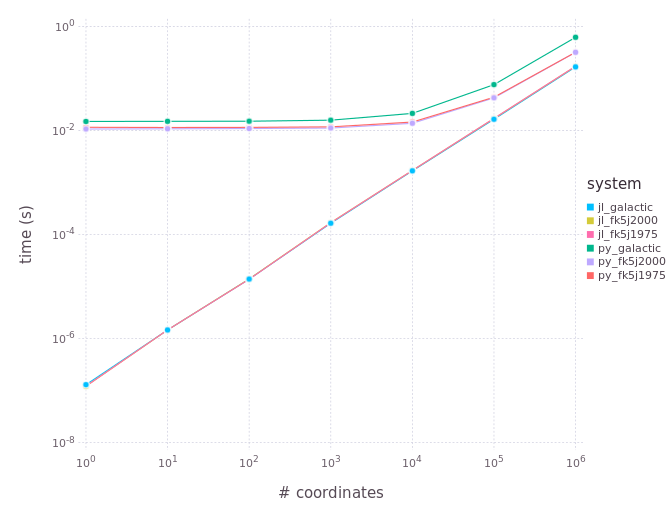
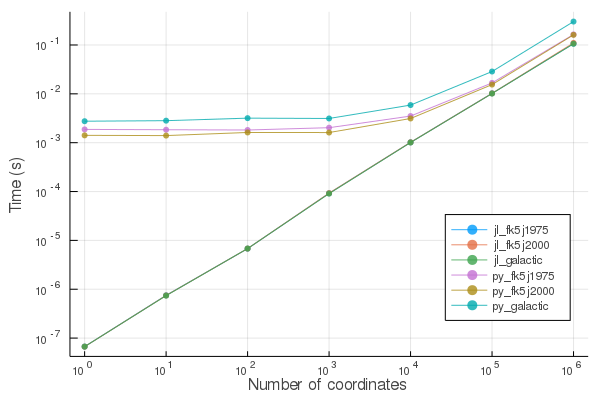
slight update and re-run of benchmarks

diff --git a/docs/src/index.md b/docs/src/index.md
@@ -101,7 +101,7 @@ In turn, astropy.coordinates has been tested against many other tools.
 ## Performance
 
 For small and moderate numbers of coordinates, conversions are much
-faster than astropy.coordinates in Python. The follow plot shows the
+faster than astropy.coordinates in Python. The following plot shows the
 performance for converting ICRS coordinates to various other systems
 (Galactic, FK5J2000 and FK5J1975), using astropy.coordinates (`py_*`
 labels) and SkyCoords.jl (`jl_*` labels). The x axis denotes the
@@ -109,6 +109,15 @@ number of coordinates being simultaneously converted, with 1
 corresponding to scalar coordinates.
 
 ![times](assets/bench.png)
+
+| Specs           |                                        |
+|:----------------|:---------------------------------------|
+| CPU             | Intel core i5-8259U @ 2.3GHz (4 cores) |
+| RAM             | 16GB                                   |
+| Julia Version   | 1.2 (JULIA\_NUM\_THREADS=8)            |
+| Python Version  | 3.7                                    |
+| Astropy Version | 3.1.2                                  |
+
 
 For scalar coordinates, SkyCoords.jl is up to 100,000 times
 faster. For very large vectors of one million coordinates or more,
